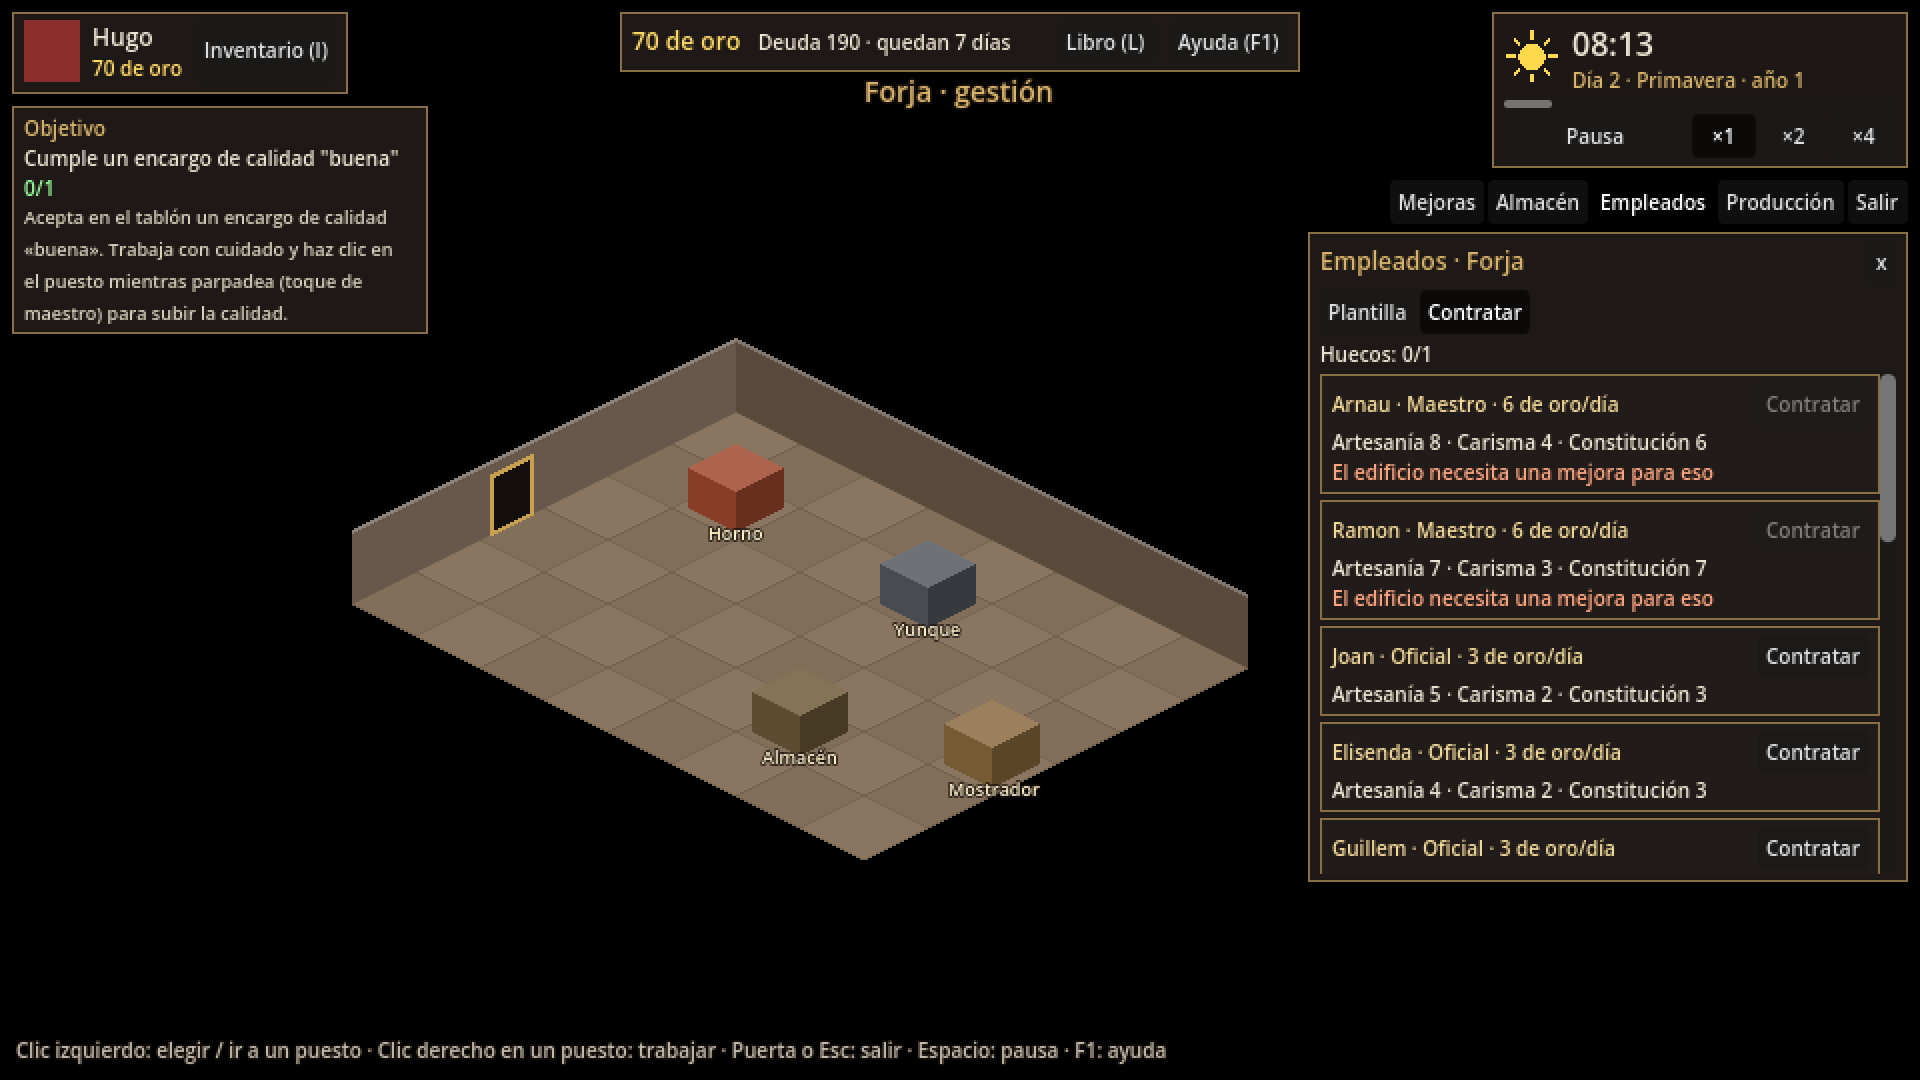
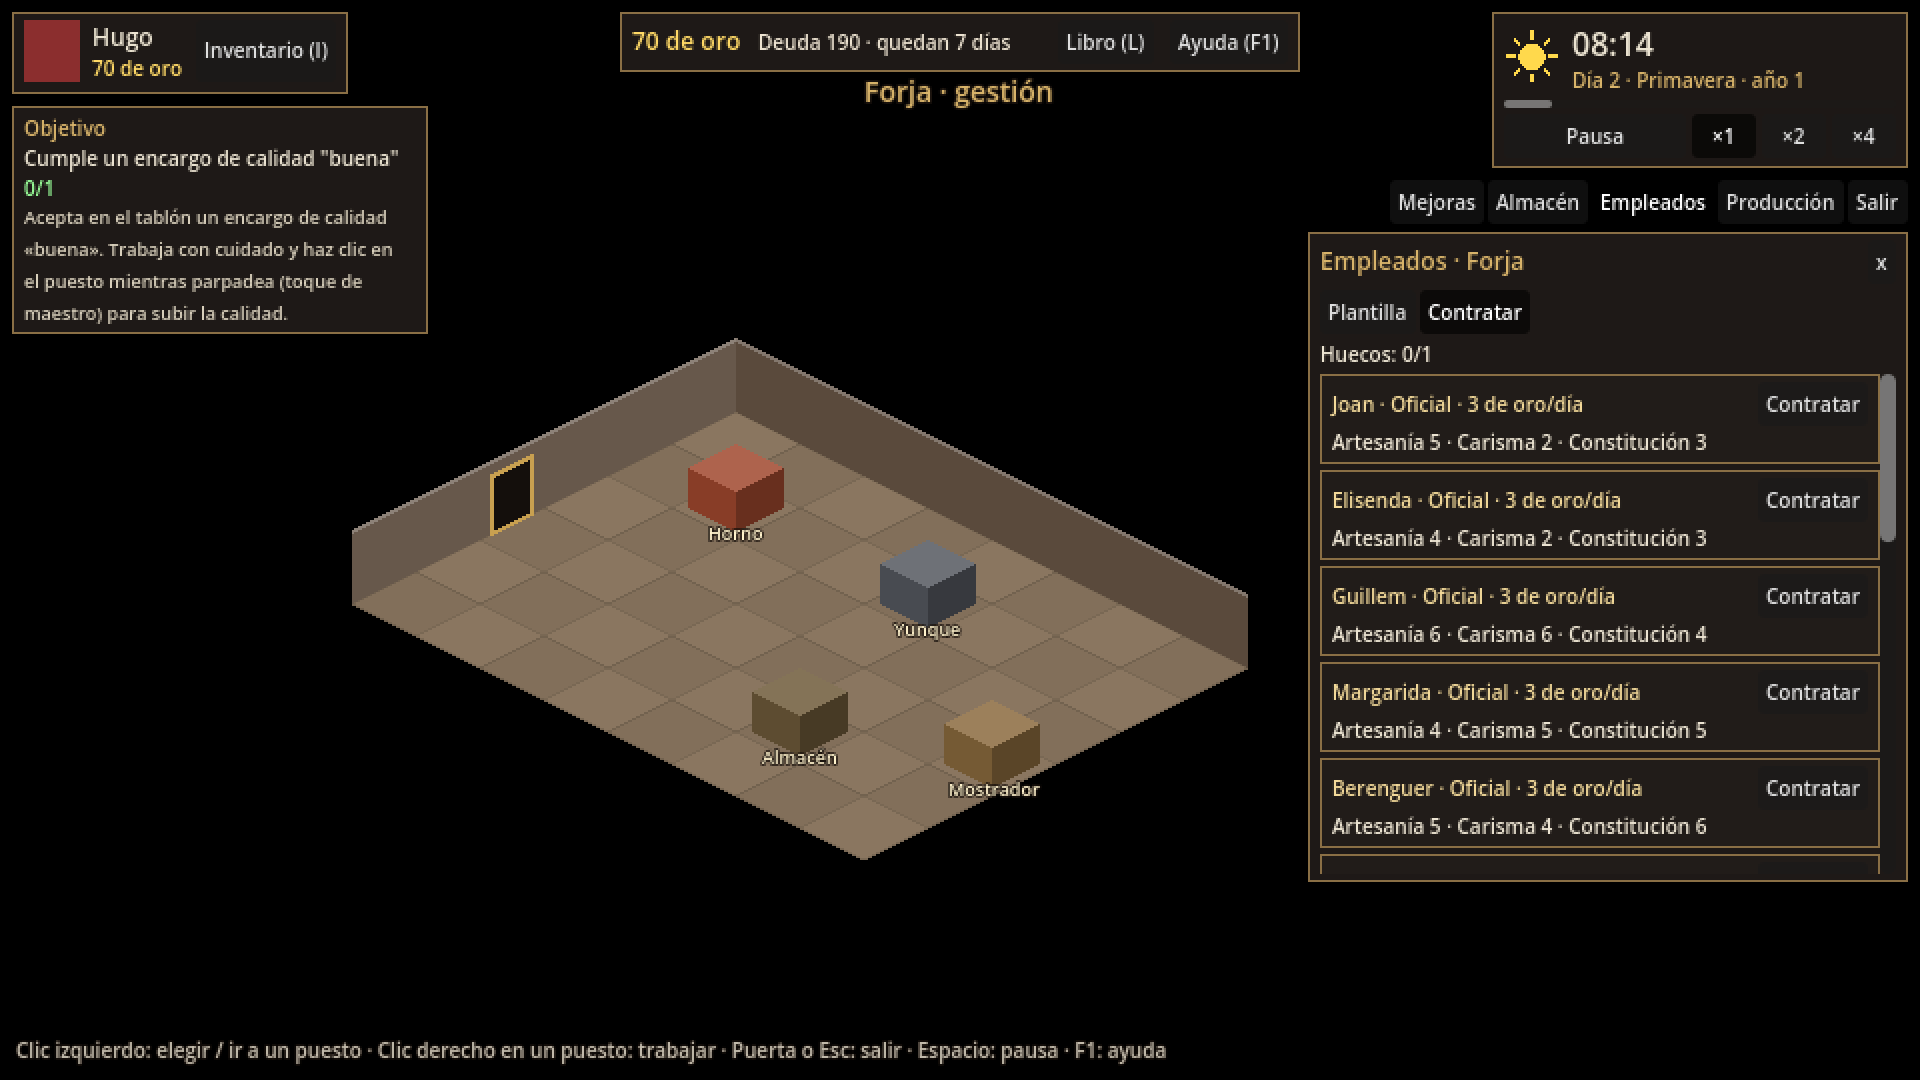
H5 pulido: objetivos con encargo perdido se dan por fallados
Si el encargo guionizado de un objetivo caduca, se abandona o lo coge otra
familia, el objetivo falla con aviso y la cadena sigue. Staff.candidates pone
primero a los contratables. Pruebas en test_meta_objectives_lost.

diff --git a/docs/contratos/h3_mercado.md b/docs/contratos/h3_mercado.md
@@ -70,6 +70,9 @@ reordenar ni tocar las de otros. Datos nuevos que necesite un sistema: en su fic
 - `data/objectives/*.json` → `catalog.objectives()`: `conditions: [{event, match, count}]` (todas). Cuenta los eventos
   `event` de la familia (campo `family` del evento, o la familia de su `actor`) cuyos campos casan con `match`
   (valor = igualdad; `{"gte"|"lte"|"ne": v}` compara); `count` eventos. Solo cuenta el objetivo actual de la cadena.
+  H5: si una condición casa con `script` y ese encargo de guion ya no está en el tablón ni aceptado por la familia
+  (caducó, se abandonó o lo cogió otra familia), el objetivo falla: `objective_failed {family, objective, reason:
+  expired|abandoned|gone}`, aviso `notice.objective_failed` y la cadena sigue (no entra en `done`).
 - `data/contracts/blacksmith.json` → `catalog.contracts()`: clientes, objetos con `qty [mín, máx]` y
   `min_quality_chance`, `min_qualities`, `deadline_days`, `premium 0,4`, recompensas y castigos, `client_cooldown_days 8`.
 - `data/buildings/armory.json`: `public: true`, `market_stall: "armory"`, zona `counter`, `interior`, `upkeep 0`.
@@ -144,7 +147,7 @@ Motivos de rechazo: los elige cada dueño con su clave `reason.<id>` ES/EN (p. e
 - cuentas: `loan_payment {actor, family, loan, amount, outstanding}`, `loan_repaid {actor, family, loan, extended}`,
   `loan_extended {family, loan, outstanding}`, `loan_seized {family, loan, gold, items}`, `game_over {kind, family}`,
   `upkeep_charged {family, building, amount}`, `upkeep_unpaid {family, building, debt}`, `building_damaged {building}`,
-  `objective_done {family, objective}`, `reputation_changed`.
+  `objective_done {family, objective}`, `objective_failed {family, objective, reason}` (H5), `reputation_changed`.
 - rival: `contract_posted {contract}`, `contract_accepted {actor, family, contract}`, `contract_delivered {actor,
   family, contract, client, item, qty, min_quality, pay, script}`, `contract_failed {family, contract, reason:
   "expired"|"abandoned"}`, `reputation_changed`.

diff --git a/docs/gdd/04b_partida_y_rivales.md b/docs/gdd/04b_partida_y_rivales.md
@@ -29,7 +29,7 @@ Continúa la sección 4 ([04_diseno_de_juego.md](04_diseno_de_juego.md)). Aproba
 
 Cuentas de referencia: a mano se ganan ~25-60 oro netos por día (4.19); en 8 días el bot `artisan_novice` debe poder pagar la deuda y quedarse en su diana de oro al día 10.
 
-**Objetivos de inicio (tutorial implícito).** Una cadena de objetivos visible en el HUD. No bloquean nada ni dan oro: su premio es lo que enseñan. Cada uno cumplido queda en el registro de avisos.
+**Objetivos de inicio (tutorial implícito).** Una cadena de objetivos visible en el HUD. No bloquean nada ni dan oro: su premio es lo que enseñan. Cada uno cumplido queda en el registro de avisos. Si un objetivo depende de un encargo guionizado y ese encargo ya no se puede cumplir (caduca, se abandona o lo coge otra familia), el objetivo **se da por fallado**: aviso en el registro que lo explica y la cadena pasa al siguiente (no se vuelve a ofrecer el encargo: el plazo incumplido también enseña). El de calidad "buena" no depende del encargo del capitán: vale cualquier encargo con calidad mínima buena.
 
 | # | Objetivo | Qué enseña |
 |---|---|---|
